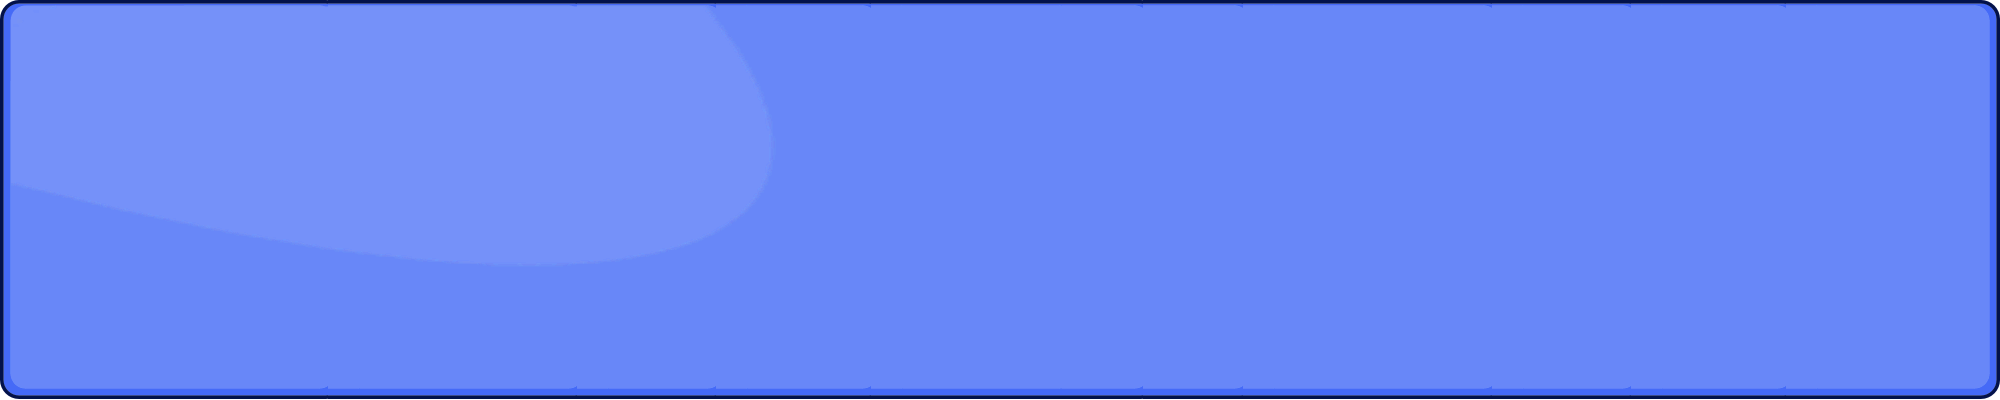
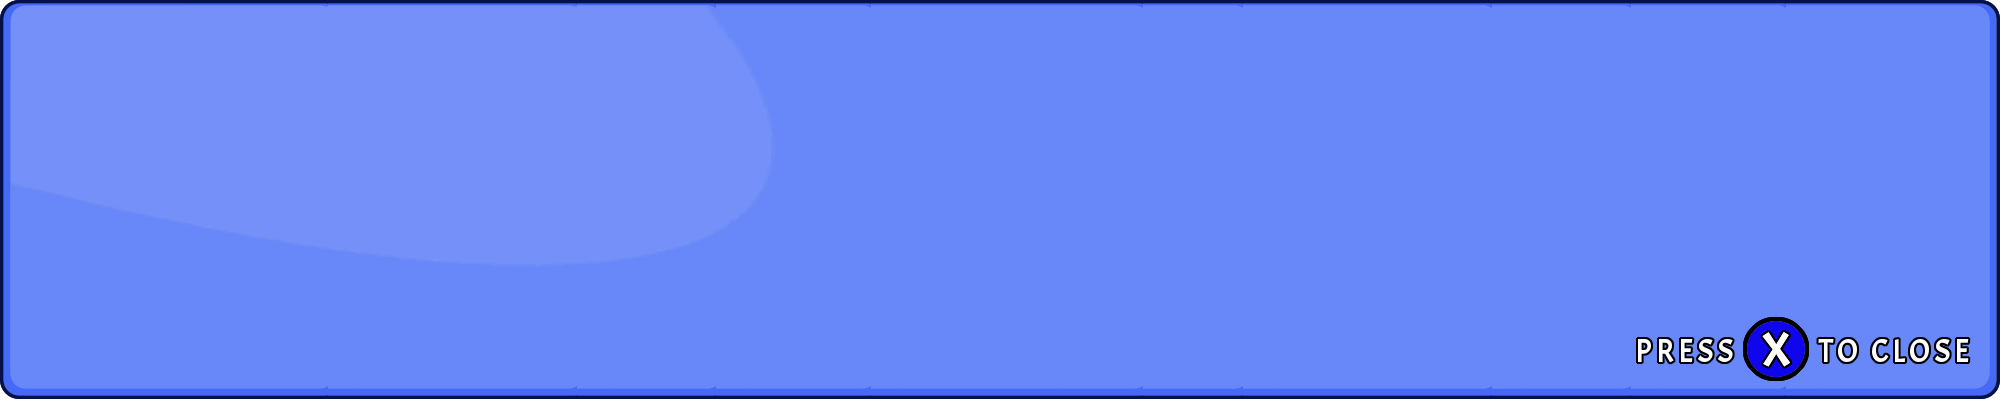
Essential backup

Changed region(s): [[0.806, 0.78, 0.992, 0.96]]

diff --git a/core/src/com/red7projects/dungeon/entities/hero/MainPlayer.java b/core/src/com/red7projects/dungeon/entities/hero/MainPlayer.java
@@ -72,6 +72,7 @@ public class MainPlayer extends GdxSprite
     public boolean isOnPlatform;
     public boolean isOnFloorButton;
     public boolean isPossessed;
+    public boolean canOpenMessagePanel;
 
     private TextureRegion[] abxy;
     private CollisionRect   tileRectangle;
@@ -103,14 +104,15 @@ public class MainPlayer extends GdxSprite
                                     | Gfx.CAT_VILLAGER
                                     | Gfx.CAT_DOOR;
 
-        isMainCharacter = true;
-        isHurting       = false;
-        isShooting      = false;
-        isGrabbing      = false;
-        isCasting       = false;
-        isOnPlatform    = false;
-        isOnFloorButton = false;
-        isPossessed     = false;
+        isMainCharacter     = true;
+        isHurting           = false;
+        isShooting          = false;
+        isGrabbing          = false;
+        isCasting           = false;
+        isOnPlatform        = false;
+        isOnFloorButton     = false;
+        isPossessed         = false;
+        canOpenMessagePanel = false;
 
         buttons       = new ButtonInputHandler(app);
         collision     = new CollisionHandler(app);
@@ -156,12 +158,13 @@ public class MainPlayer extends GdxSprite
         isFlippedY      = false;
         canFlip         = false;
 
-        isHurting       = false;
-        isShooting      = false;
-        isCasting       = false;
-        isGrabbing      = false;
-        localIsDrawable = false;
-        isDrawable      = true;
+        isHurting           = false;
+        isShooting          = false;
+        isCasting           = false;
+        isGrabbing          = false;
+        localIsDrawable     = false;
+        isDrawable          = true;
+        canOpenMessagePanel = true;
 
         sprite.setRotation(0);
         sprite.setPosition(initXY.getX(), initXY.getY());
@@ -301,9 +304,21 @@ public class MainPlayer extends GdxSprite
 
         isOnFloorButton = (collision.isNextTo(GraphicID.G_FLOOR_BUTTON) > 0);
 
+        if (collision.isNextTo(GraphicID.G_VILLAGER) > 0)
+        {
+            if (getSpriteAction() == Actions._STANDING)
+            {
+                if (canOpenMessagePanel)
+                {
+                    buttons.xButtonActions.process();
+                    canOpenMessagePanel = false;
+                }
+            }
+        }
+
+        // TEMP
         if (strength <= 0)
         {
-            // TEMP
             strength = Constants._MAX_STRENGTH;
         }
     }
@@ -634,9 +649,14 @@ public class MainPlayer extends GdxSprite
                 }
                 break;
 
+                case _STANDING:
+                {
+                    canOpenMessagePanel = true;
+                }
+                break;
+
                 case _PAUSED:
                 case _WAITING:
-                case _STANDING:
                 case _TELEPORTING:
                 case _CHANGING_ROOM:
                 case _DEAD:

diff --git a/core/src/com/red7projects/dungeon/entities/hero/ButtonInputHandler.java b/core/src/com/red7projects/dungeon/entities/hero/ButtonInputHandler.java
@@ -28,24 +28,24 @@ import com.red7projects.dungeon.physics.Movement;
 
 public class ButtonInputHandler implements Disposable
 {
-    private AButtonActions aButtonActions;
-    private BButtonActions bButtonActions;
-    private XButtonActions xButtonActions;
-    private YButtonActions yButtonActions;
+    AButtonActions aButtonActions;
+    BButtonActions bButtonActions;
+    XButtonActions xButtonActions;
+    YButtonActions yButtonActions;
 
     private final App app;
 
-    ButtonInputHandler(App _app)
+    public ButtonInputHandler(App _app)
     {
         this.app = _app;
 
-        this.aButtonActions = new AButtonActions(app);
-        this.bButtonActions = new BButtonActions(app);
-        this.xButtonActions = new XButtonActions(app);
-        this.yButtonActions = new YButtonActions(app);
+        aButtonActions = new AButtonActions(app);
+        bButtonActions = new BButtonActions(app);
+        xButtonActions = new XButtonActions(app);
+        yButtonActions = new YButtonActions(app);
     }
 
-    void checkButtons()
+    public void checkButtons()
     {
         //
         // A Button
@@ -95,6 +95,11 @@ public class ButtonInputHandler implements Disposable
 
                 setDirection(app.inputManager.lastRegisteredDirection);
             }
+        }
+
+        if (AppConfig.availableInputs.contains(ControllerType._EXTERNAL, true))
+        {
+            setDirection(app.inputManager.lastRegisteredDirection);
         }
 
         if (AppConfig.availableInputs.contains(ControllerType._MOUSE, true))

diff --git a/core/src/com/red7projects/dungeon/game/GameControlLoop.java b/core/src/com/red7projects/dungeon/game/GameControlLoop.java
@@ -19,6 +19,7 @@ package com.red7projects.dungeon.game;
 import com.red7projects.dungeon.assets.GameAssets;
 import com.red7projects.dungeon.config.AppConfig;
 import com.red7projects.dungeon.graphics.Gfx;
+import com.red7projects.dungeon.ui.SlidePanel;
 import com.red7projects.dungeon.utils.logging.Trace;
 import com.red7projects.dungeon.screens.MainGameScreen;
 import com.red7projects.dungeon.ui.MessagePanel;
@@ -278,6 +279,20 @@ public class GameControlLoop extends AbstractControlLoop
     {
         app.getHud().update();
         app.mapUtils.update();
+
+        if (app.getHud().messageManager.getCurrentPanel().getState() == StateID._UPDATE)
+        {
+            if (app.getHud().buttonX.isPressed)
+            {
+                ((SlidePanel) app.getHud().messageManager.getCurrentPanel()).activate();
+
+                app.getHud().messageManager.closeSlidePanel();
+
+                scr().gameState.set(StateID._STATE_GAME);
+
+                app.getHud().buttonX.release();
+            }
+        }
 
         if (!messagePanel.update())
         {

diff --git a/core/src/com/red7projects/dungeon/input/GameController.java b/core/src/com/red7projects/dungeon/input/GameController.java
@@ -103,14 +103,20 @@ public class GameController implements ControllerListener
             {
                 Trace.dbg("::Switched to _VIRTUAL");
 
-                AppConfig.availableInputs.add(ControllerType._VIRTUAL);
+                if (!AppConfig.availableInputs.contains(ControllerType._VIRTUAL, true))
+                {
+                    AppConfig.availableInputs.add(ControllerType._VIRTUAL);
+                }
                 AppConfig.virtualControllerPos = ControllerPos._LEFT;
             }
             else
             {
                 Trace.dbg("::Switched to _KEYBOARD");
 
-                AppConfig.availableInputs.add(ControllerType._KEYBOARD);
+                if (!AppConfig.availableInputs.contains(ControllerType._KEYBOARD, true))
+                {
+                    AppConfig.availableInputs.add(ControllerType._KEYBOARD);
+                }
                 AppConfig.virtualControllerPos = ControllerPos._HIDDEN;
             }
         }

diff --git a/core/src/com/red7projects/dungeon/ui/HeadsUpDisplay.java b/core/src/com/red7projects/dungeon/ui/HeadsUpDisplay.java
@@ -85,14 +85,14 @@ public class HeadsUpDisplay implements Disposable
 
             //
             // Y is distance from the TOP of the screen
-            { 568,  568,   40,    0,    0},             // Coins total
-            { 568,  568,  150,    0,    0},             // Gems total
+            { 758,  758,   40,    0,    0},             // Coins total
+            { 758,  758,  150,    0,    0},             // Gems total
             {1920, 1920,   72,    0,    0},             // Life bar
             {1920, 1920,  186,    0,    0},             // Health bar
 
             //
             // Y is distance from the TOP of the screen
-            { 152,  152,   96,    0,    0},             // Keys
+            { 332,  332,   96,    0,    0},             // Keys
             {1219, 1219,  240,    0,    0},             // Compass
         };
 

diff --git a/core/src/com/red7projects/dungeon/entities/hero/XButtonActions.java b/core/src/com/red7projects/dungeon/entities/hero/XButtonActions.java
@@ -20,10 +20,6 @@ import com.red7projects.dungeon.assets.GameAssets;
 import com.red7projects.dungeon.game.Actions;
 import com.red7projects.dungeon.game.App;
 import com.red7projects.dungeon.game.StateID;
-import com.red7projects.dungeon.maths.SimpleVec2F;
-import com.red7projects.dungeon.physics.Direction;
-import com.red7projects.dungeon.physics.Movement;
-import com.red7projects.dungeon.physics.Speed;
 import com.red7projects.dungeon.ui.SlidePanel;
 import com.red7projects.dungeon.utils.logging.Trace;
 
@@ -47,8 +43,6 @@ public class XButtonActions
         }
         else
         {
-            Trace.__FILE_LINE__();
-
             ((SlidePanel) app.getHud().messageManager.getCurrentPanel()).activate();
 
             app.getHud().messageManager.closeSlidePanel();

diff --git a/core/src/com/red7projects/dungeon/entities/characters/interactive/Villager.java b/core/src/com/red7projects/dungeon/entities/characters/interactive/Villager.java
@@ -74,16 +74,6 @@ public class Villager extends GdxSprite
         {
             case _STANDING:
             {
-                canShowMessage = proximity.isVeryClose(this, app.getPlayer());
-
-                if (canShowMessage)
-                {
-                    if (app.getPlayer().getSpriteAction() == Actions._STANDING)
-                    {
-                        app.mainGameScreen.gameState.set(StateID._STATE_MESSAGE_PANEL);
-                    }
-                }
-
                 if (app.getPlayer().topEdge < sprite.getY())
                 {
                     descriptor._ASSET = app.assets.getAnimationsAtlas().findRegion(GameAssets._VILLAGER_IDLE_DOWN_ASSET);

diff --git a/core/src/com/red7projects/dungeon/ui/MessageManager.java b/core/src/com/red7projects/dungeon/ui/MessageManager.java
@@ -72,7 +72,7 @@ public class MessageManager implements Disposable
             currentPanel.set
                 (
                     new SimpleVec2F(currentPanel.getPosition().x, currentPanel.getPosition().y),
-                    new SimpleVec2F(0, currentPanel.getPosition().y),
+                    new SimpleVec2F(0, currentPanel.getSize().getY() + 50),
                     new Direction(Movement._DIRECTION_STILL, Movement._DIRECTION_DOWN),
                     new Speed(0, 40)
                 );

diff --git a/core/src/com/red7projects/dungeon/config/AppConfig.java b/core/src/com/red7projects/dungeon/config/AppConfig.java
@@ -96,11 +96,15 @@ public abstract class AppConfig
         if (isAndroidApp())
         {
             availableInputs.add(ControllerType._VIRTUAL);
+
             virtualControllerPos = ControllerPos._LEFT;
         }
         else
         {
             availableInputs.add(ControllerType._EXTERNAL);
+            availableInputs.add(ControllerType._KEYBOARD);
+            availableInputs.add(ControllerType._MOUSE);
+
             virtualControllerPos = ControllerPos._HIDDEN;
         }
 

diff --git a/core/src/com/red7projects/dungeon/ui/MessagePanel.java b/core/src/com/red7projects/dungeon/ui/MessagePanel.java
@@ -35,7 +35,7 @@ public class MessagePanel
                     ),
                 new SimpleVec2F(0, app.getHud().messageManager.getCurrentPanelHeight() + 50),
                 new Direction(Movement._DIRECTION_STILL, Movement._DIRECTION_UP),
-                new Speed(0, (float) ((app.getHud().messageManager.getCurrentPanelHeight() + 50) / 10))
+                new Speed(0, 40)
             );
 
         app.getHud().hideControls(false);

diff --git a/core/src/com/red7projects/dungeon/input/InputManager.java b/core/src/com/red7projects/dungeon/input/InputManager.java
@@ -180,7 +180,6 @@ public class InputManager
                         case "PC/PS3/Android":
                         case "Controller (Inno GamePad..)":
                         {
-                            Trace.__FILE_LINE__();
                             yPercent *= -1;
                         }
                         break;
